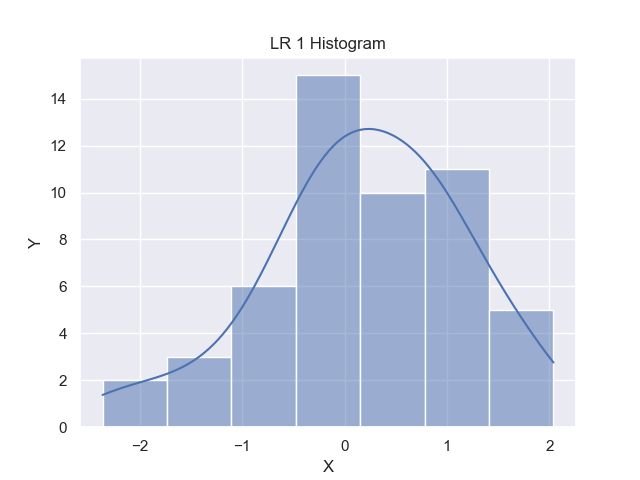
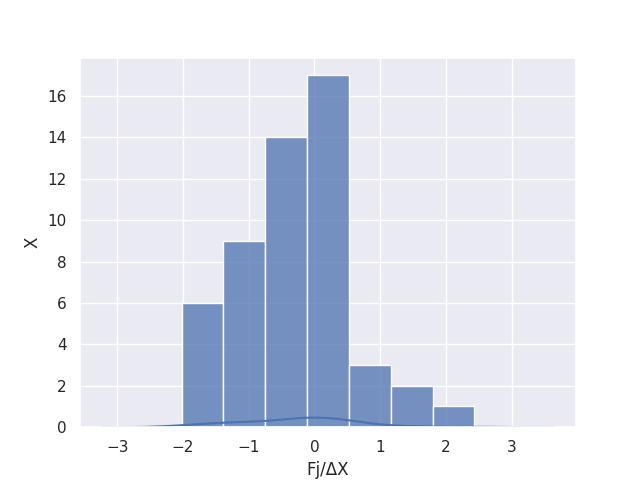
Fix uncorrect plot KDE.

diff --git a/Main.py b/Main.py
@@ -1,4 +1,4 @@
-from funcitons import mx, disp, histogram, np, plt, p, find_broken_data
+from funcitons import mx, disp, histogram, np, plt, p
 from scipy.stats import chisquare
 
 
@@ -7,15 +7,11 @@ def rasp(data, namehist):
     p_r = p(data)
     disp_r = disp(data, mx_r)
     sigma_r = disp_r ** (1 / 2)
-    count_broken_data, clear_data = find_broken_data(data, sigma_r)
-    if count_broken_data > 0:
-        rasp(clear_data, namehist)
     plt.figure()
     hist_obj = histogram(data)
     hist_obj.plot()
     plt.xlabel(xlabel='X')
-    plt.ylabel(ylabel='Y')
-    plt.title('LR 1 Histogram')
+    plt.ylabel(ylabel='Fj/ΔX')
     plt.savefig(namehist)
     plt.show()
     hi = chisquare(data)
@@ -25,15 +21,6 @@ def rasp(data, namehist):
     print('Вибіркова дисперсія:   ' + str(disp_r))
     print('Точкова оцінка середнього квадратичного:   ' + str(sigma_r))
     print('Xi^2 ( Критерій Пірсена ): ' + str(hi))
-    print('Знайдено викидів:' + str(count_broken_data))
-    pass
 
 
-print('======================================================================================')
-print('=============================NORMAL===================================================')
-print('======================================================================================')
-rasp(np.random.normal(size=52), 'normalhist')
-print('======================================================================================')
-print('===================================REAL===============================================')
-print('======================================================================================')
 rasp(np.loadtxt("data.txt", delimiter='\b', dtype=np.float), 'realhist')

diff --git a/funcitons.py b/funcitons.py
@@ -15,11 +15,11 @@ def find_broken_data(data, sigma):
     while i < len(data):
         srx += data[i]
         i += 1
-    srx_r = (1/len(data)*srx)
-    lower_lim = srx_r - sigma*3
-    upper_lim = srx_r + sigma*3
+    srx_r = (1 / len(data) * srx)
+    lower_lim = srx_r - sigma * 3
+    upper_lim = srx_r + sigma * 3
     while j < len(data):
-        if data[j] > upper_lim or data[j] < lower_lim :
+        if data[j] > upper_lim or data[j] < lower_lim:
             anomalies.append(data[j])
         else:
             clear_data.append(data[j])
@@ -38,7 +38,7 @@ def mx(data):
     while i < len(data):
         mx_ += data[i]
         i += 1
-    return (1/i)*mx_
+    return (1 / i) * mx_
 
 
 def disp(data, mx_):
@@ -47,15 +47,10 @@ def disp(data, mx_):
     while i < len(data):
         disp_ += (data[i] - mx_) ** 2
         i += 1
-    return (1/i)*disp_
+    return (1 / i) * disp_
 
 
 def histogram(data):
     sns.set_theme()
-    ax = sns.histplot(data,  kde=True)
-
+    ax = sns.distplot(data, kde=True, kde_kws={'kernel':'gau'})
     return ax
-
-
-
-
